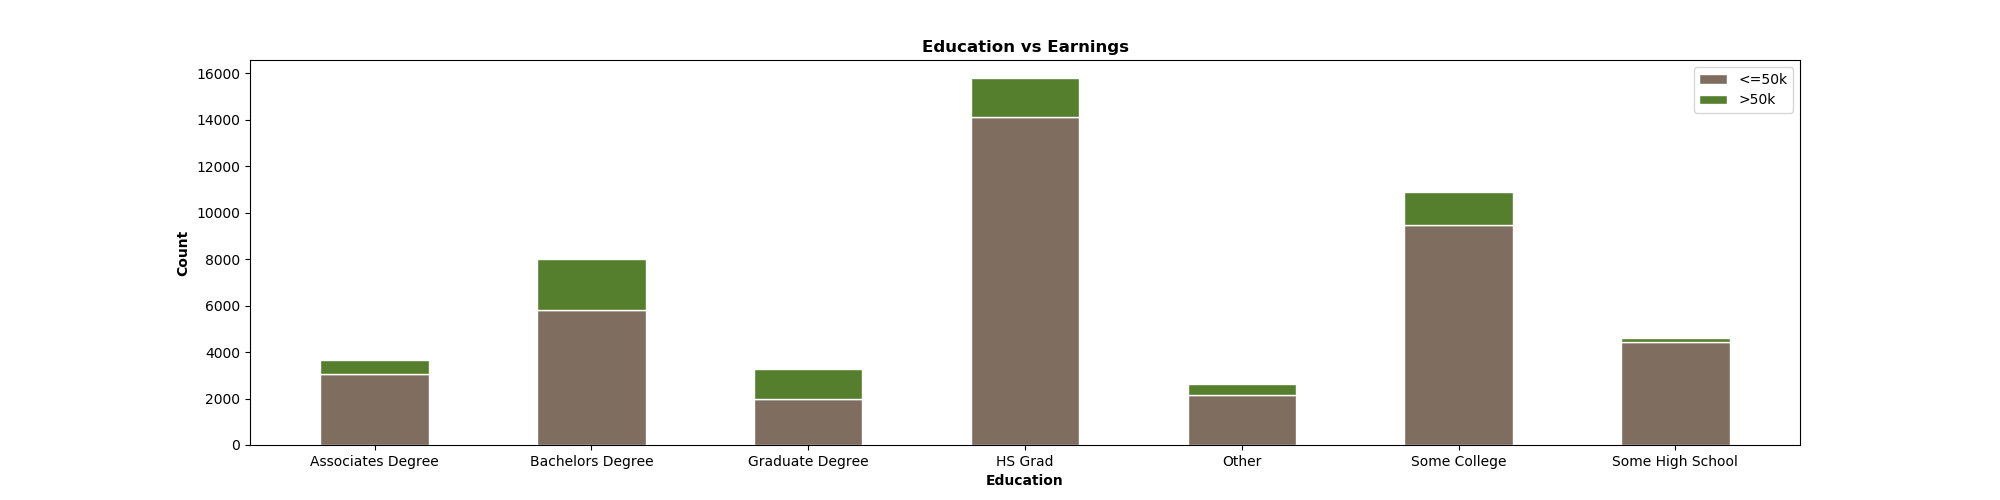
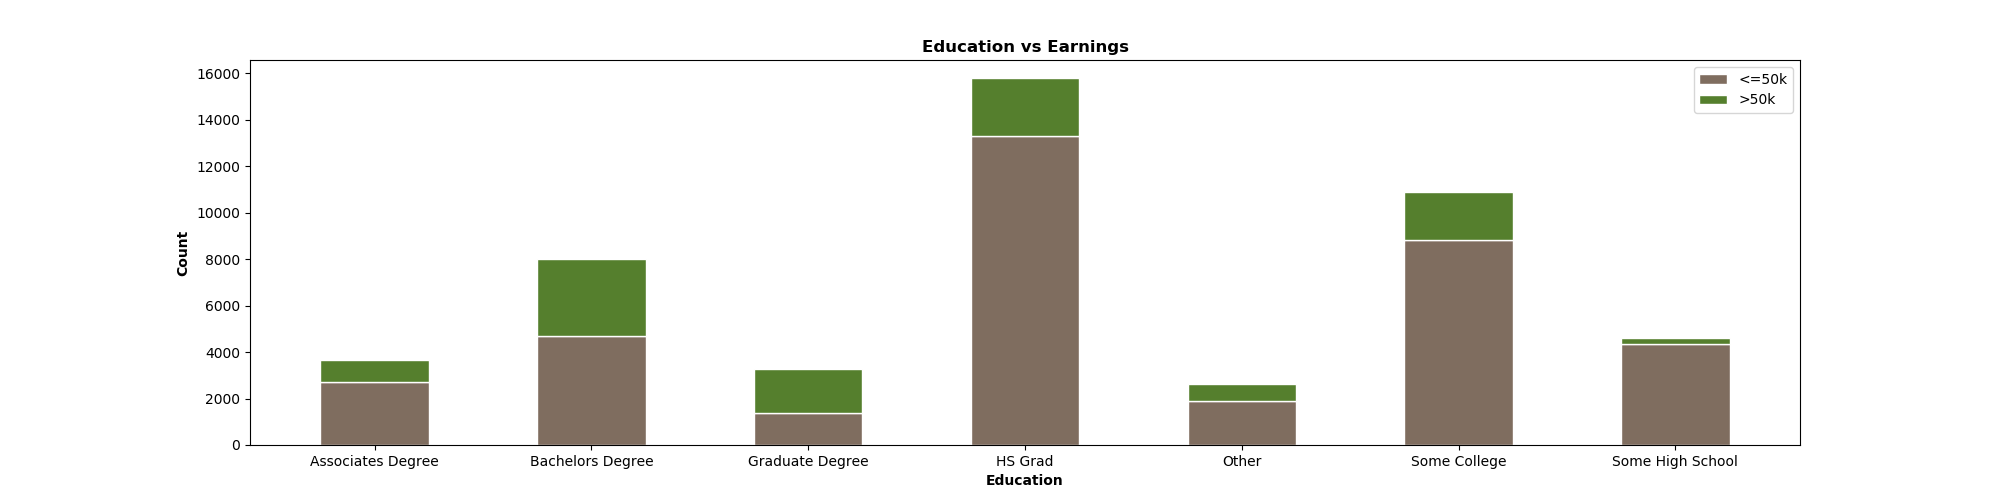
Updated to include 50k with a period

diff --git a/visualizations.py b/visualizations.py
@@ -43,8 +43,8 @@ def load_data():
     all_data = pd.concat([training_data, test_data])
 
     #set some calculated fields and clean column names for presentation
-    all_data['Below_50k'] = all_data['Salarys'].apply(lambda x: False if x == ' >50K' else True)
-    all_data['From_USA'] = all_data['NTVCTRY'].apply(lambda x: True if x == ' United-States' else False)
+    all_data['Below_50k'] = all_data['Salarys'].apply(lambda x: False if '>50K' in x  else True)
+    all_data['From_USA'] = all_data['NTVCTRY'].apply(lambda x: True if  'United-States' in x else False)
     all_data['Age'] = pd.cut(all_data['Age'],bins=[0,19,29,39,49,59,69,120], labels=['17-19', '20-29', '30-39', '40-49', '50-59', '60-69', '70-90'])
     all_data['Hours Worked Per Week'] = pd.cut(all_data['HRSPERWK'], bins=[0,29,39,40,59,1000], labels=['Under 30', '30-39', '40', '41-59','Over 60'])
     all_data['Education'] = np.select([all_data['Education'].isin([' 9th',' 10th',' 11th',' 12th']),
@@ -52,6 +52,7 @@ def load_data():
                                             all_data['Education'] == ' Bachelors', all_data['Education'] == ' Some-college',
                                             all_data['Education'].isin([' Masters',' Doctorate'])],
                                           ['Some High School', 'HS Grad', 'Associates Degree', 'Bachelors Degree', 'Some College', 'Graduate Degree'], default='Other')
+    all_data['Race'] = all_data['Race'].apply(lambda x: 'White' if 'White' in x else 'Non-White')
 
     # Fix this typo is the data file
     all_data['Marital Status'] = all_data['Martial_Status']
